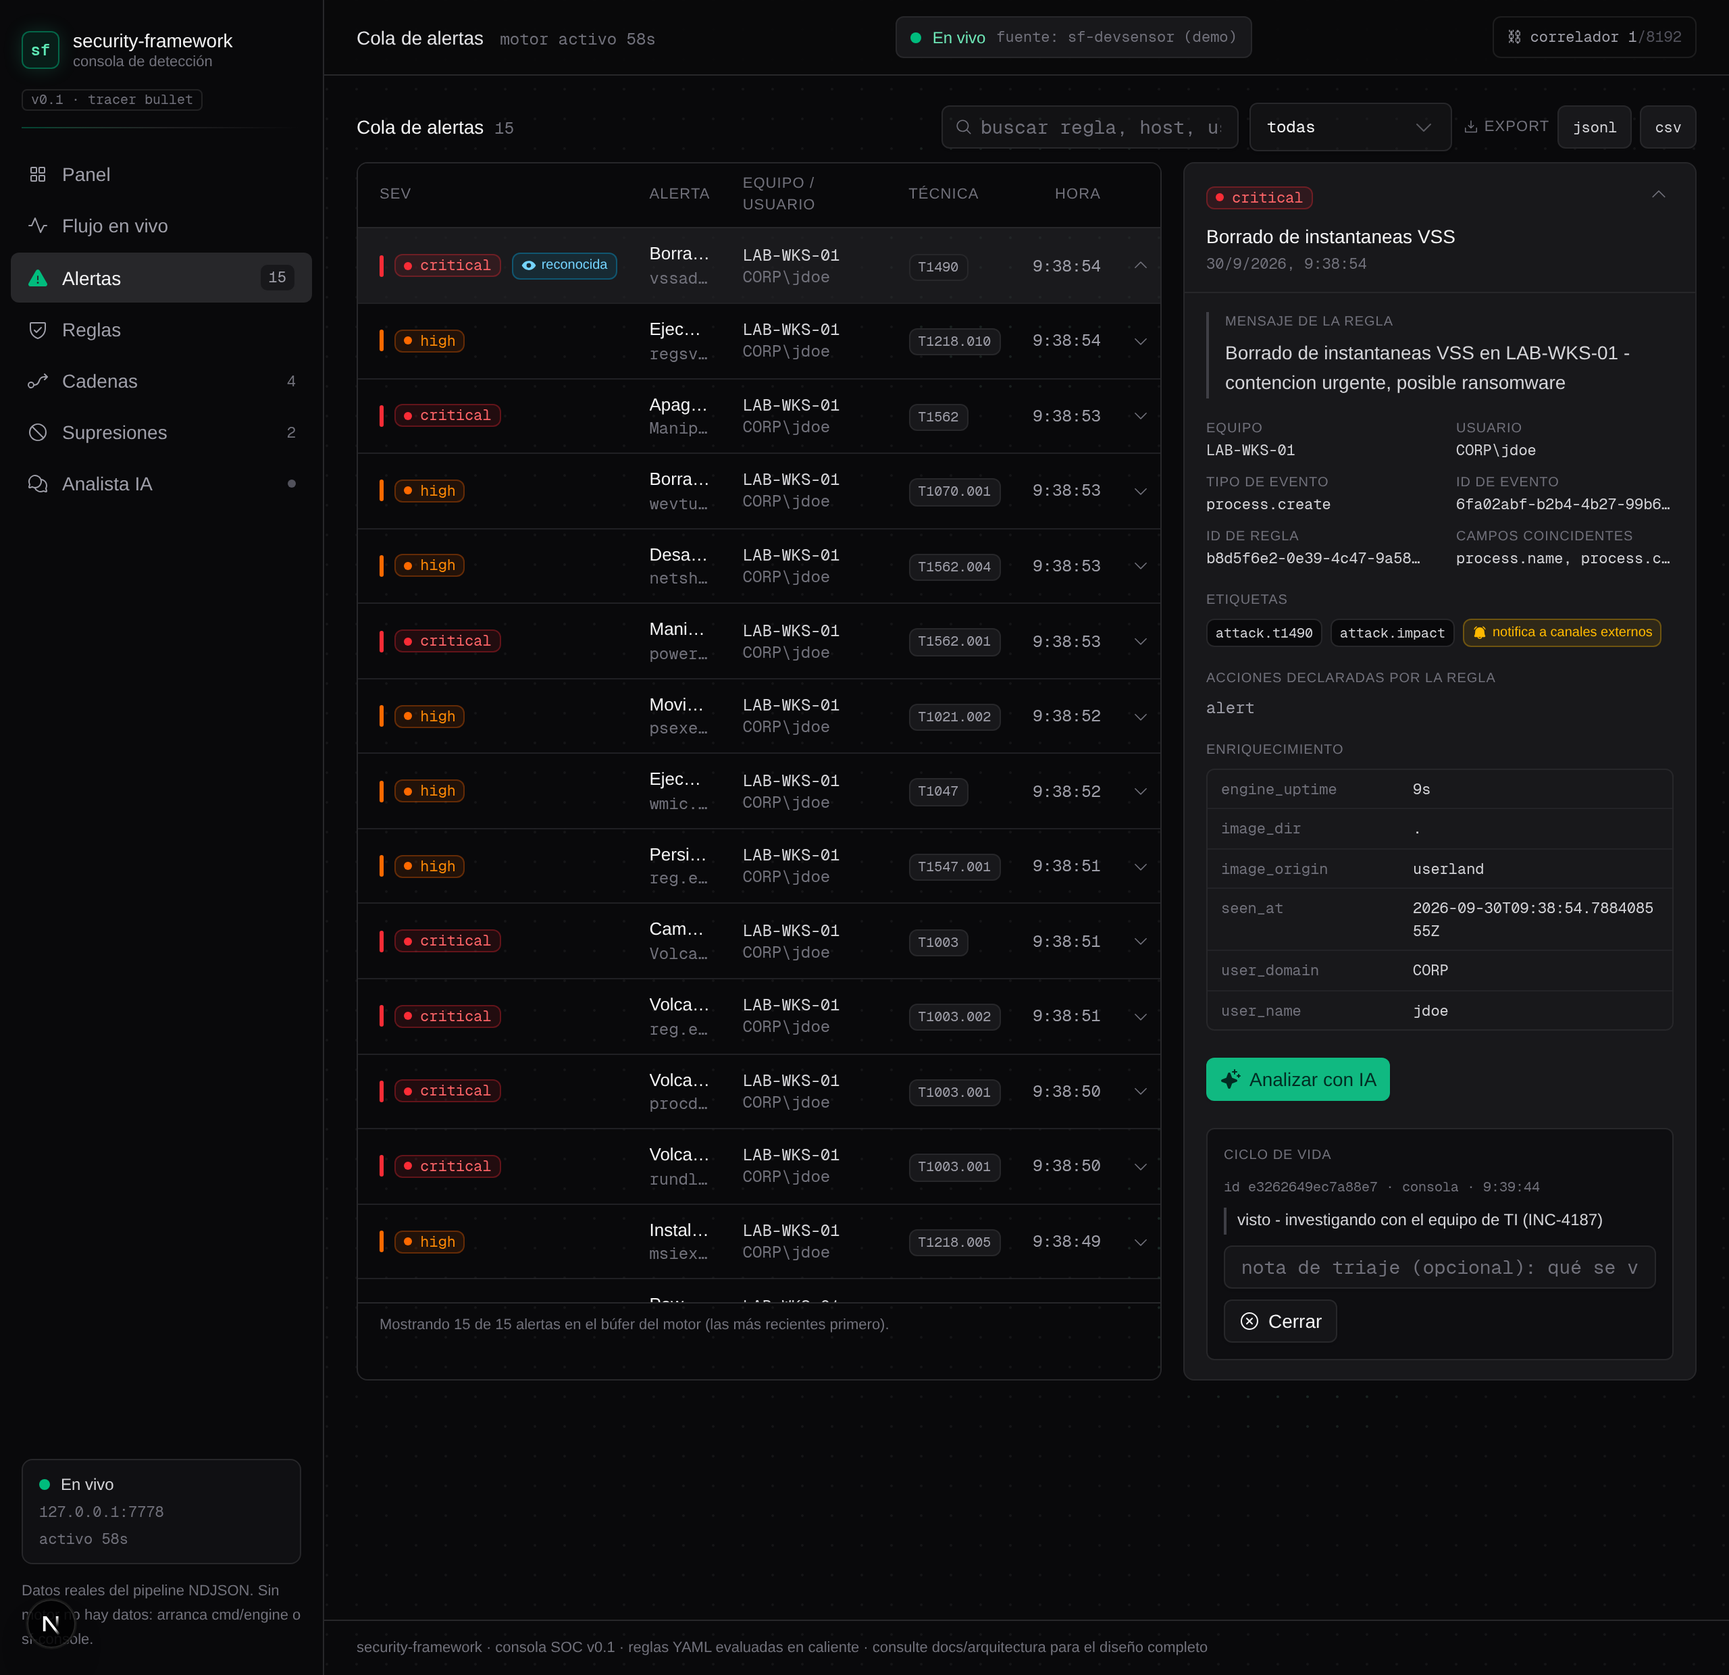
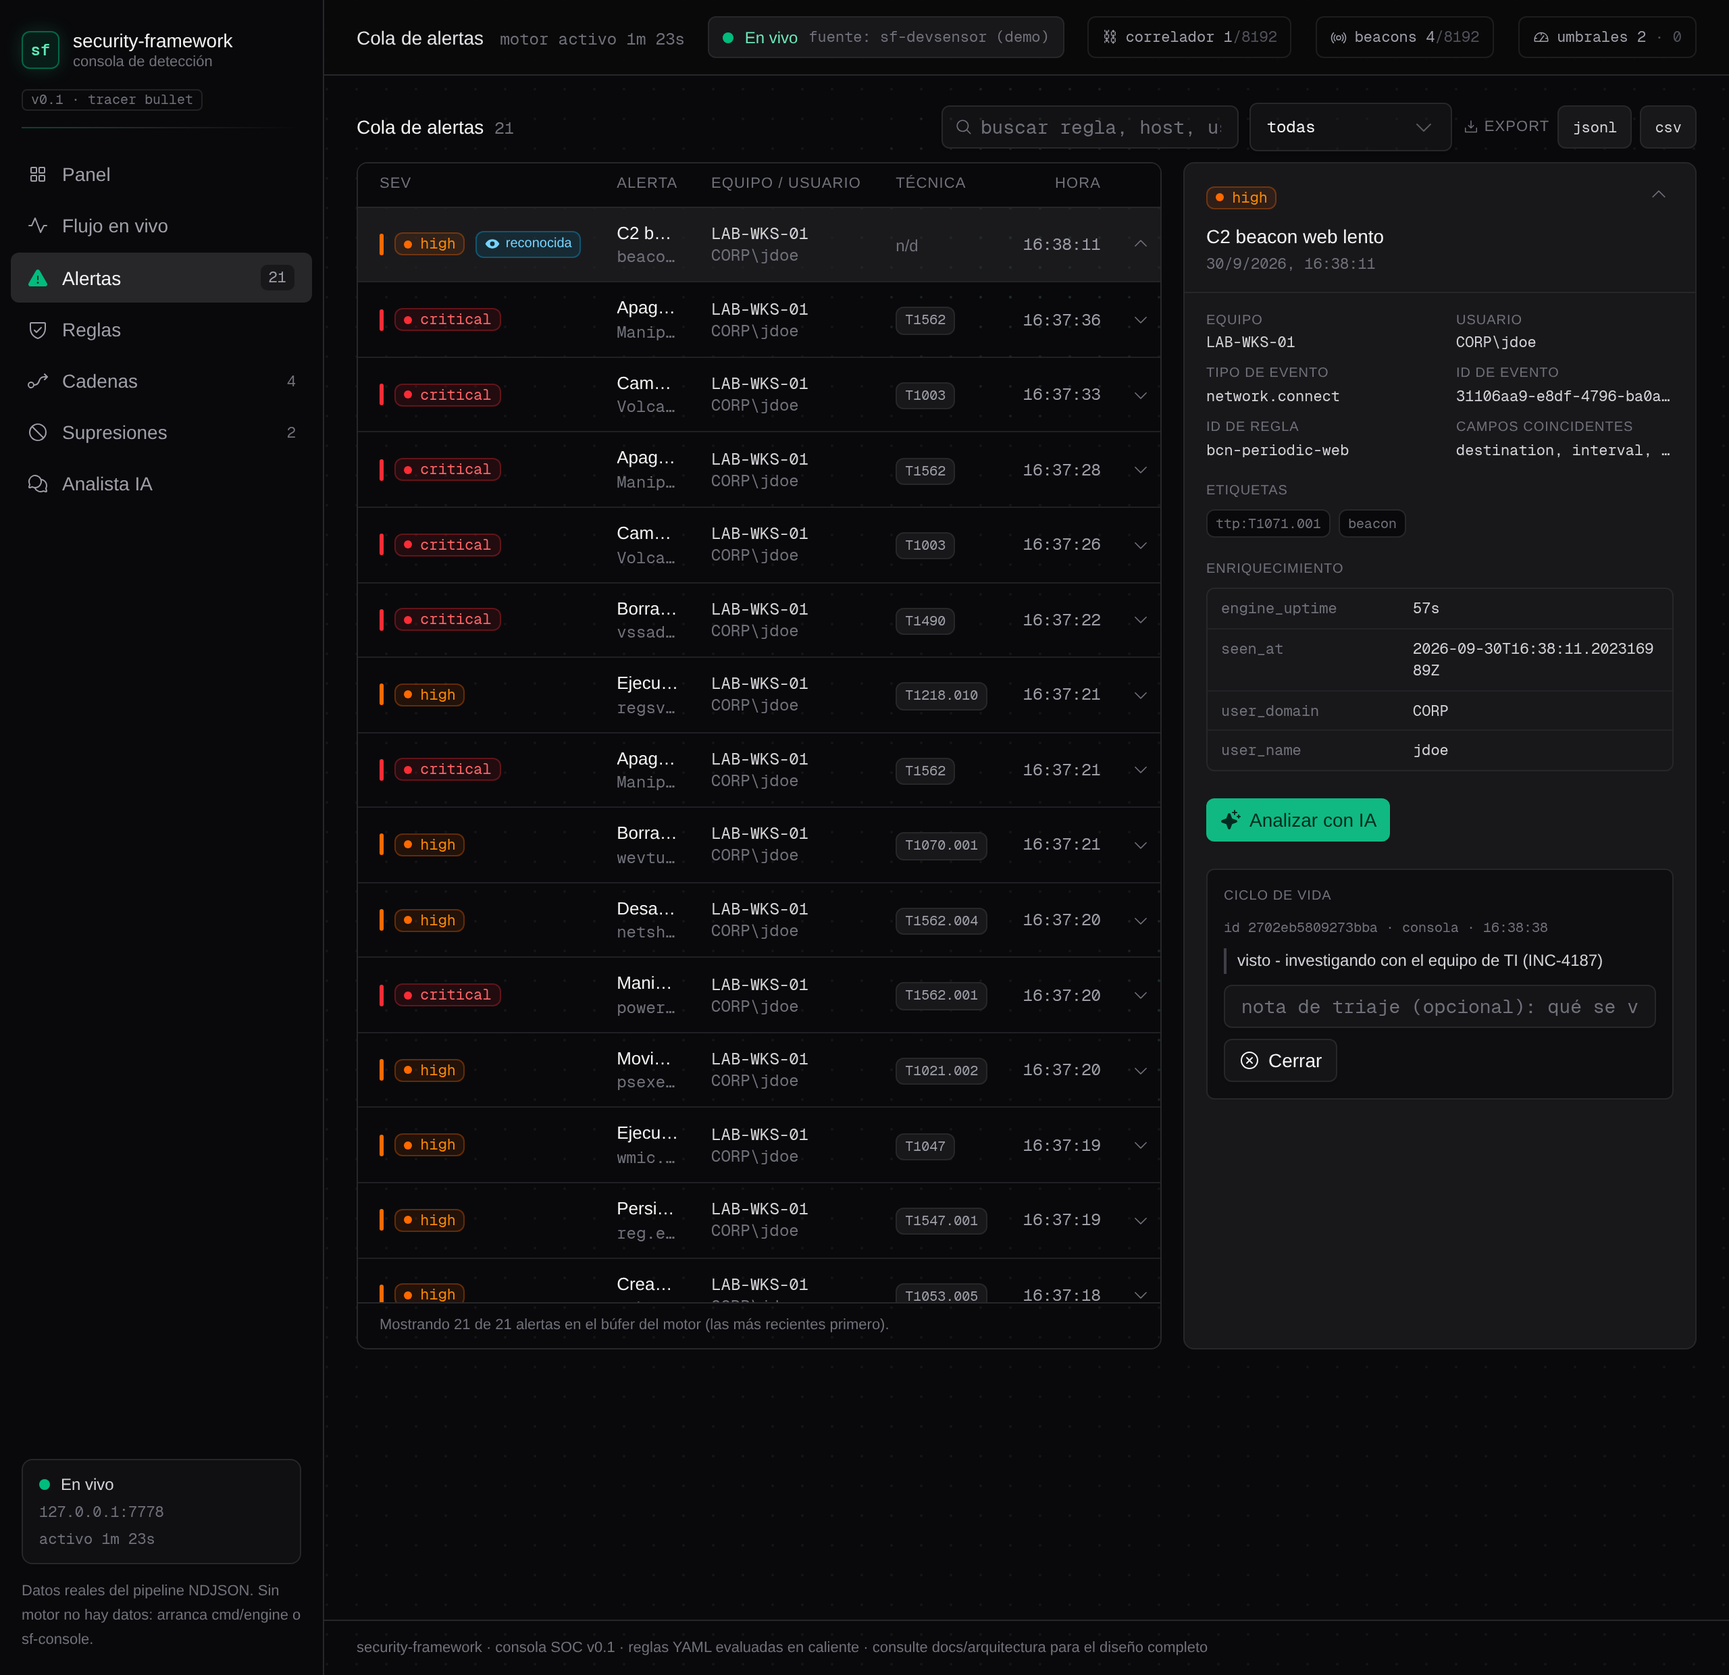
docs(03B): conciliacion de duplicado + capturas de consola regeneradas sobre el stack real - el push de esta sesion fue rechazado por non-fast-forward: 208db28 (sesion 03-B paralela, acta 18h20_B) aterrizo de forma independiente el PDF v0.4 con generador versionado - la version publicada manda (regl

diff --git a/docs/assets/src/assemble_gif.py b/docs/assets/src/assemble_gif.py
@@ -1,0 +1,53 @@
+# -*- coding: utf-8 -*-
+"""Ensambla console-busqueda.gif desde los frames que deja
+capture_console.mjs en su directorio temporal.
+
+Uso:
+    python3 assemble_gif.py <dir-de-frames> [salida.gif]
+
+Salida por defecto: docs/assets/console-busqueda.gif (1100 px de ancho,
+paleta adaptativa por frame, ~450 ms por frame con retención larga en
+el último — la convención documentada en docs/assets/README.md).
+"""
+import os
+import sys
+
+from PIL import Image
+
+HERE = os.path.dirname(os.path.abspath(__file__))
+# HERE = docs/assets/src -> tres niveles arriba queda la raíz del repo
+REPO = os.path.dirname(os.path.dirname(os.path.dirname(HERE)))
+DEFAULT_OUT = os.path.join(REPO, "docs", "assets", "console-busqueda.gif")
+
+FRAME_MS = 450
+FINAL_MS = 1800
+TARGET_W = 1100
+
+
+def main():
+    frames_dir = sys.argv[1]
+    out = sys.argv[2] if len(sys.argv) > 2 else DEFAULT_OUT
+    names = sorted(
+        (f for f in os.listdir(frames_dir) if f.endswith(".png")),
+        key=lambda n: int(os.path.splitext(n)[0][1:]) if n[0] == "f" else 0,
+    )
+    if not names:
+        raise SystemExit(f"sin frames PNG en {frames_dir}")
+    frames = []
+    for n in names:
+        im = Image.open(os.path.join(frames_dir, n)).convert("RGB")
+        if im.width != TARGET_W:
+            im = im.resize((TARGET_W, round(im.height * TARGET_W / im.width)),
+                           Image.LANCZOS)
+        frames.append(im.quantize(colors=256, method=Image.MEDIANCUT))
+    durations = [FRAME_MS] * len(frames)
+    durations[-1] = FINAL_MS
+    frames[0].save(
+        out, save_all=True, append_images=frames[1:], duration=durations,
+        loop=0, optimize=True, disposal=2,
+    )
+    print(f"OK gif -> {out} ({len(frames)} frames)")
+
+
+if __name__ == "__main__":
+    main()

diff --git a/docs/agentes/03-pulimiento/ronda_2026-09-30_18h50_B.md b/docs/agentes/03-pulimiento/ronda_2026-09-30_18h50_B.md
@@ -1,0 +1,70 @@
+# Ronda — Agente 03-B (Pulimiento — carril: docs/UX) — 2026-09-30 18h50 (Europe/Madrid)
+
+**Ronda:** conciliación de duplicado + aterrizaje del trabajo COMPLEMENTARIO no cubierto por la sesión paralela: **capturas de consola regeneradas sobre el stack real** (tile de riesgo, panel de hosts calientes y KPIs `beacons_*` incluidos por primera vez), capturador mejorado, ensamblador del GIF versionado y sync de READMEs. La asignación vigente del Director («03 PDF+capturas»).
+**Base de partida:** `origin/main` = `091986c` al clonar; al intentar el push, `origin/main` había avanzado a `f226fb5` con **11 olas entrantes** — entre ellas `208db28`, **otra sesión 03-B que aterrizó de forma independiente el PDF v0.4 con generador versionado** (su acta 18h20_B, misma asignación de la cola del Director).
+**Identidad git local (pre-flight, regla 2):** `Ruby570bocadito <ruby570bocadito@users.noreply.github.com>` verificada ANTES del commit.
+
+## 1. La colisión y su manejo (precedente `fa6f4a7`: la versión publicada manda)
+
+Esta sesión trabajó de forma independiente el mismo encargo que la sesión 03-B paralela (el PDF v0.4 con generador versionado) Y la parte de capturas. Cronología verificada: cloné `091986c`; su commit `208db28` aterrizó a las 16:19 UTC mientras esta ronda ejecutaba su batería; mi push fue rechazado por non-fast-forward.
+
+**Manejo aplicado (regla 7, nunca force):**
+
+1. **Commit local retirado con `git reset origin/main`** — sin reescribir historia remota, sin force. Mi commit duplicado (`783f6d2`, local) desaparece del árbol; su contenido sigue descrito en esta acta como evidencia.
+2. **Superficies duplicadas → la versión publicada manda.** Restauradas desde `origin/main` con `git checkout`: `scripts/arq_v04/` completo (su `generator.py` de 1.013 líneas, `render_cover.mjs` vectorial, `render_diagram.mjs`, `merge_and_meta.py`, `build.sh`, README), `docs/arquitectura-tecnica-v0.4.pdf`, `docs/assets/src/cover-v0.4.html`, README principal, `docs/README.md` y `docs/assets/README.md`. Mis versiones paralelas de esas piezas (mi propio generador modular, mi PDF de 17 páginas, mi portada) se retiraron del árbol — el trabajo duplicado no se pushea.
+3. **Lo complementario, que NADIE había aterrizado, se conserva y se publica** (§3): las capturas de consola eran la mitad de la asignación del Director y el commit publicado no las toca (cero `console-*.png` en `208db28`).
+
+**Convergencia independiente documentada como evidencia** (patrón de la casa): dos sesiones, el mismo plan del acta 17h25 §7, la misma decisión de versionar el generador completo, la misma actualización de conteos (13 rutas / 36 campos, roadmap 13/17, 18 paquetes internos) y las mismas secciones nuevas para SIEM/notify/respond — con organización distinta (su 3.5 «salidas externas» unificada + 3.6; mi 3.4/3.5/3.6 separadas) pero la misma sustancia verificada. El generador quedó versionado en ambos intentos: la precondición de la v0.5 está resuelta pase lo que pase.
+
+## 2. Verificación cruzada del PDF v0.4 publicado (`208db28`, evidencia de esta ronda)
+
+| Chequeo | Resultado |
+|---|---|
+| `pdfinfo` | 20 páginas (19 → 20), Producer pypdf, Título/Subject de la serie |
+| `pdftotext`: secciones nuevas | 3.5 salidas externas y 3.6 respuesta activa presentes (8 menciones de «respuesta activa») |
+| Conteos con procedencia | «roadmap interno registra 13 de 17»; «13 rutas y 36 campos»; «18 paquetes»; marcador de defectos citado con su fuente |
+| Generador citado en el documento | «scripts/arq_v04» ×3 |
+| Placeholders / residuos | 0 (grep TODO/placeholder/RESPOND_KILL_E2E vacío) |
+| Figura 1 | regenerada por ellos desde fuente con la CAPA 4 real (277.797 bytes, `diagram_arquitectura.html` actualizado) — verificada por lectura del diff |
+
+El QA que su acta declara (pdf_qa 0, font.check 0, TOC folios coincidentes) es consistente con lo observado en los greps de esta verificación cruzada.
+
+## 3. Lo que ESTA ronda aterriza (complementario, sin solape)
+
+1. **Las siete capturas de consola regeneradas sobre el stack real** — la deuda visual que el Director venía señalando: el tile de riesgo, el panel de hosts calientes y los chips de detector (`beacons 4/8192`, `correlador`, `umbrales`) NO aparecían en ninguna captura anterior:
+   - Stack vivo: `bin/engine` (reglas + secuencias + beacons.yaml + 2 supresiones de laboratorio en `suppressions.yaml`, gitignoreado), hub `console-service` (:3003) y consola **producción** (`next build` + `next start`, :3000).
+   - Alimentación: replay de `sf-devsensor` ×2 + **`-beacon 14 -beacon-interval 3s`, que dispara el detector A3 DE VERDAD**: `/api/stats` verificó `beacons_fired=1`, `beacons_tracked=4/8192`, `risk_hosts_tracked=1` (LAB-WKS-01, score 156,58), 21 alertas — la cola capturada muestra la alerta real «C2 beacon lento» (high) con su cadencia medida.
+   - `console-panel.png` ahora corre con viewport alto (1280×1780) y lo restaura: la columna del motor muestra el panel de hosts calientes completo (barra roja, score decaído, explicación). La nota del README «the capture below predates the panel» queda RETIRADA porque deja de ser cierta.
+   - `console-alertas-triaje.png` registra un triaje REAL de punta a punta (consola → hub → motor: reconocida con nota INC-4187). `console-busqueda.gif` re-ensamblado (6 frames, GIF89a 1100×744). El chip sigue etiquetando `sf-devsensor (demo)` — cero telemetría inventada.
+   - `website/public/console-panel.png` sincronizado (la duplicación que 17h25 §4 dejó anotada se respeta: el sitio es autónomo).
+2. **`docs/assets/src/assemble_gif.py` versionado** — el ensamblado del GIF (1100 px, paleta adaptativa, 450 ms/frame, retención larga final) deja de ser folklore; fila en `docs/assets/README.md` y paso 3 con el comando real.
+3. **`capture_console.mjs` mejorado** — viewport alto para el panel + restauración; el resto del tour sin cambios de comportamiento.
+4. **Alt texts del README actualizados** al contenido real de las nuevas capturas (riesgo + hosts calientes), en sus dos apariciones.
+5. **`.gitignore`**: guard del artefacto intermedio del pipeline publicado (`docs/arquitectura-tecnica-v0.4.cover.pdf`) — las fuentes quedan en el repo, los derivados fuera.
+
+## 4. Batería de la ronda (sobre el árbol `091986c` que esta sesión verificó)
+
+Toolchain por-instancia (Go 1.22.10 en `~/tools/go`, fuera del repo). Cada conteo se ejecutó antes de citarse: `go build` OK; **`go test ./...` 18/18 paquetes, 0 FAIL**; `check_openapi.py` OK (13 rutas / 36 campos / 69 refs); **e2e_sigma 10/10, e2e_threshold 12/12, e2e_beacon 14/14, e2e_risk_a1 23/23, e2e_siem 19/19, e2e_respond_kill 14/14, e2e_store_sequences 17/17**; smokes auth 8 / lifecycle 9 / store 4 / notify 8, 0 FAIL. Nota honesta: las olas entrantes (`dff85fd`, `f30b7e4`, `cb33da6`, 04B) modificaron fuentes Go DESPUÉS de mi batería — la certificación del árbol fusionado la aporta el CI externo sobre este push (regla 6, declarado, nunca silencioso).
+
+## 5. Marcadores
+
+- **Defectos: #33 fue CERRADO por `f30b7e4` durante esta ronda** — el canónico pasa de «32/32 + #33 propuesto» (lo que esta ronda llegó a citar de `fa6f4a7`/`e3db91f`) a **33/33 cerrados, 0 vivos** según el commit de cierre; certificación final del Director.
+- **Roadmap: 13/17** citado de las actas con procedencia; sin recalcular.
+- **Discord:** sin `DISCORD_WEBHOOK_URL` en este entorno — dicho una vez (política v2).
+- **Seguridad:** nada nuevo detectado en las superficies tocadas; reitero al propietario la **rotación del PAT** (ALTA viva más antigua del repo, compartido en chat).
+
+## 6. Observaciones para el Director (sin fix, patrón de la casa)
+
+- **O1 — Figura 2 del PDF publicado vs capturas nuevas:** el PDF aterrizado por la sesión paralela incrusta el panel PREVIO a esta regeneración (sin hosts calientes visibles). Con su pipeline versionado, refrescarlo es UN comando (`scripts/arq_v04/build.sh`) — decisión del propietario/Director para la próxima ronda de docs; esta ronda no toca su PDF publicado.
+- **O2 — capturas y la ola C3 de consola:** mis capturas reflejan el árbol `091986c` (la superficie de lectura del audit de `cb33da6` aterrizó durante la ronda): la navegación capturada no incluye la vista de respuesta. La próxima ronda de capturas puede recogerla ya.
+- **O3 — proceso:** la colisión de esta ronda es la primera materialización del doble encargo simultáneo (dos sesiones 03-B, misma asignación de cola). La práctica de «fetch fresco inmediato antes de elegir tarea» (adoptada en `4207d1d`) y la declaración de sesión en las actas funcionaron: el push rechazado se detectó en el intento, el rebase se recondujo sin pérdidas y las piezas complementarias llegaron completas. Sugerencia mantener ambas.
+
+## 7. Cola del carril
+
+1. Refresco de la Figura 2 del PDF con el nuevo panel (O1 — un comando con el pipeline publicado).
+2. Captura de la vista de respuesta de `cb33da6` y del chip `threshold_*` con datos cuando A2 aterrice.
+3. Version checkers de la cola antigua del Director (siguen pendientes, fuera de esta ronda).
+
+## 8. Estado del push
+
+Rebase sobre `origin/main` verificado fichero a fichero (los 43 ficheros de las olas entrantes restaurados a la versión publicada salvo mi delta de capturas); publicación por fast-forward, sin force nunca (regla 7); identidad verificada en el commit; el CI externo certifica el árbol al publicarse.

diff --git a/README.md b/README.md
@@ -37,7 +37,7 @@ A behavioral detection framework built by an offensive-security practitioner, in
 | **Performance** | Measured, not assumed: ingest→alert p99 ≈ 0.4 ms on loopback ([numbers](#measured-performance)) |
 | **Security posture** | Loopback-only binds by default, constant-time token compares, CSV formula-injection neutralization, SHA-pinned CI |
 
-![Console operations dashboard: KPIs, sensor activity chart, kill-chain alerts and recent telemetry](docs/assets/console-panel.png)
+![Console operations dashboard: KPIs with the per-host risk tile, sensor activity chart, hot-hosts panel and recent telemetry](docs/assets/console-panel.png)
 
 ---
 
@@ -611,9 +611,9 @@ The repo ships an early browser console: live telemetry feed, KPI dashboard, sev
 
 The interface carries a restrained motion layer adapted from [React Bits](https://reactbits.dev) — every effect communicates a state change and none is decoration: a pointer-reactive dot-grid canvas behind the shell, view titles that blur in on section change, KPI halos that follow the mouse, an animated 1px border on the AI analyst while it is working, a gradient pulse on the critical counter while critical alerts exist, a status chip that scales in when a triage decision lands, and a brand tagline that decrypts once on load. Everything respects `prefers-reduced-motion` (static fallbacks) and the whole layer adds zero runtime dependencies beyond `motion`.
 
-Operations dashboard: KPIs, sensor activity, hot hosts, top kill-chain alerts and the live event sample in one view. The KPI strip carries a per-host risk tile (tracked hosts + current leader) and the engine column stacks the hot-hosts panel: the top hosts by decayed score, their bar, and an honest empty state when nothing is hot (the score cools on its own; the capture below predates the panel — see the round reports for the current layout). The header adds one status chip per detector/delivery surface (webhook delivery, kill-chain correlator, A3 beaconing, A2 volumetric thresholds — hidden while the feature is off, red at saturation), and the engine summary names the real persistence mode (`SQLite · N eventos · N alertas` with `-store`, `sin store` without): if a behavioral detector is armed or the store is attached, the console says so on screen, fed only by `/api/stats`.
+Operations dashboard: KPIs, sensor activity, hot hosts, top kill-chain alerts and the live event sample in one view. The KPI strip carries a per-host risk tile (tracked hosts + current leader) and the engine column stacks the hot-hosts panel: the top hosts by decayed score, their bar, and an honest empty state when nothing is hot (the score cools on its own; the capture below shows the panel populated with the risk tile and the hot-hosts bar fed by a real devsensor replay with the beaconing detector fired). The header adds one status chip per detector/delivery surface (webhook delivery, kill-chain correlator, A3 beaconing, A2 volumetric thresholds — hidden while the feature is off, red at saturation), and the engine summary names the real persistence mode (`SQLite · N eventos · N alertas` with `-store`, `sin store` without): if a behavioral detector is armed or the store is attached, the console says so on screen, fed only by `/api/stats`.
 
-![Console operations dashboard: KPIs, sensor activity chart, kill-chain alerts and recent telemetry](docs/assets/console-panel.png)
+![Console operations dashboard: KPIs with the per-host risk tile, sensor activity chart, hot-hosts panel and recent telemetry](docs/assets/console-panel.png)
 
 Alert triage queue with severity badges, MITRE tags and expandable details. Selecting a row opens the detail panel: the rendered rule message, matched fields, declared actions and enrichment, plus the triage actions (r6) at the end of the panel:
 

diff --git a/docs/assets/README.md b/docs/assets/README.md
@@ -22,6 +22,7 @@ remains regenerable.
 | `src/cover-v0.4.html`       | source  | cover page used to produce `docs/arquitectura-tecnica-v0.4.pdf` (rendered by `scripts/arq_v04/render_cover.mjs`) |
 | `src/cover-v0.5.html`       | source  | cover page used to produce `docs/arquitectura-tecnica-v0.5.pdf` (rendered by `scripts/arq_v04/render_cover.mjs`) |
 | `src/capture_console.mjs`   | source  | Playwright script that produces the `console-*` captures (see header for prerequisites) |
+| `src/assemble_gif.py`       | source  | assembles `console-busqueda.gif` from the per-frame PNGs the capture script leaves in the temp dir |
 
 ## Regenerating a diagram
 
@@ -42,8 +43,9 @@ remains regenerable.
 2. Run `node src/capture_console.mjs` (prerequisites in the script
    header). It writes the five PNGs into this directory.
 3. Assemble `console-busqueda.gif` from the per-frame PNGs the script
-   leaves in the temp dir (resize to ~1100px wide, adaptive palette,
-   ~450ms per frame with a long hold on the final frame).
+   leaves in the temp dir: `python3 src/assemble_gif.py <frames-dir>`
+   (resizes to ~1100px wide, adaptive palette, ~450ms per frame with a
+   long hold on the final frame).
 
 The captures show the console fed by the real engine replaying the
 `sf-devsensor` demo scenario; the header chip labels the source
